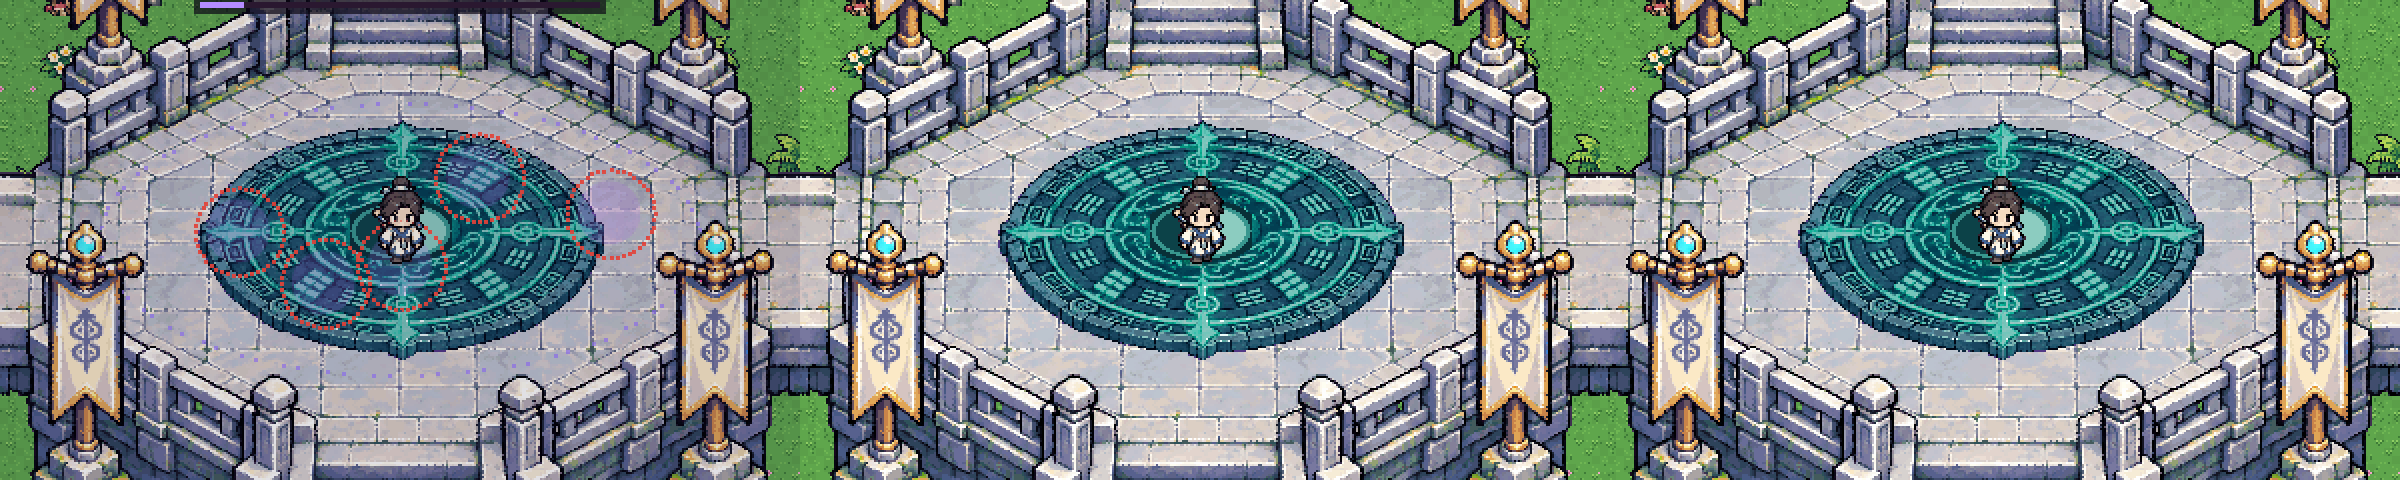
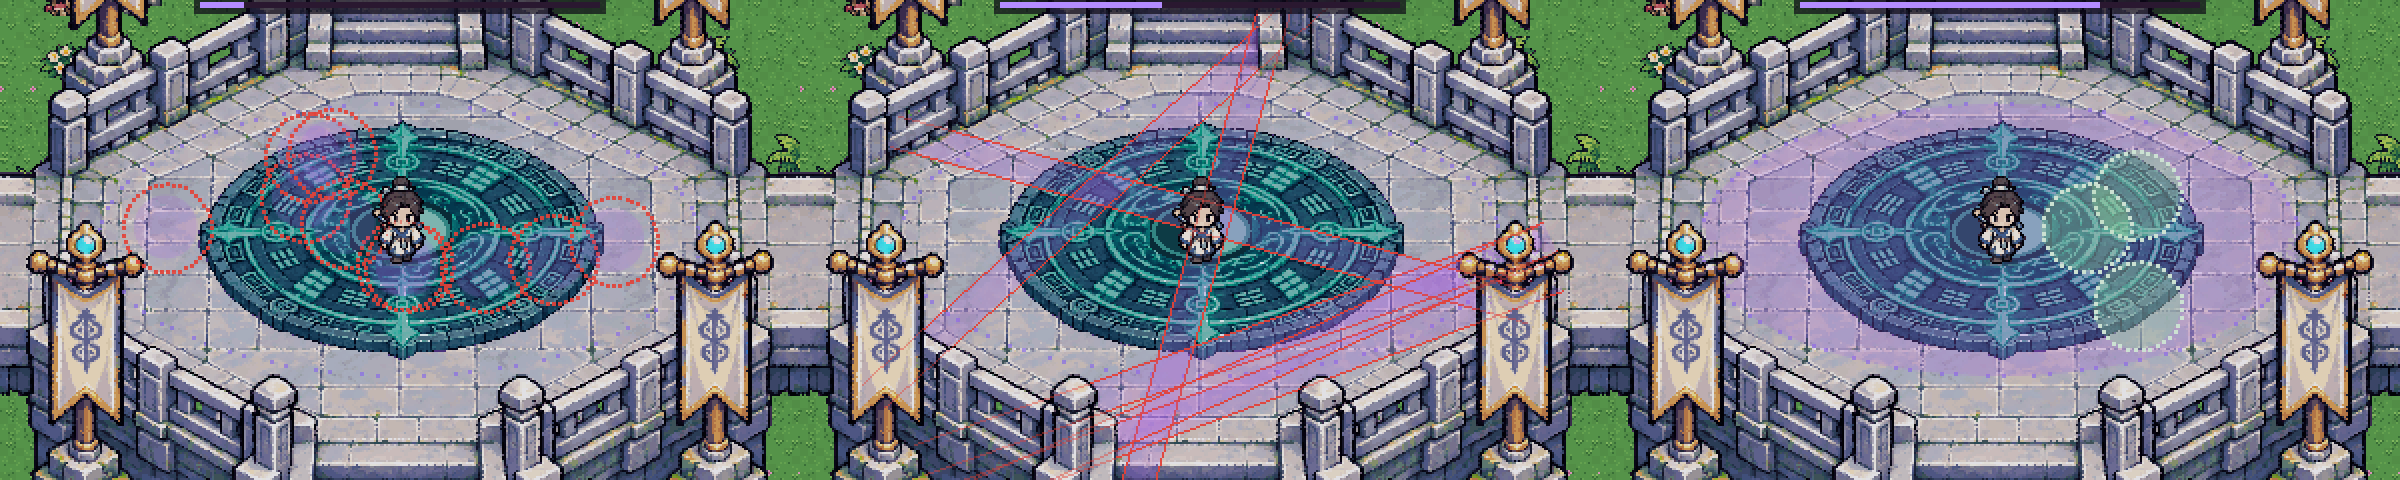
M8: gap doi don thien kiep o sanh (Loi an 10, Loi xa 6); sua loi treo o nhip Thien loi

diff --git a/src/core/config.js b/src/core/config.js
@@ -200,7 +200,7 @@ export const TRIBULATION = {
   SECT_ARENA_R: 86,          // (cũ) vòng tròn ở sảnh — thay bằng SECT_ARENA (elip phủ cả mặt sàn bệ)
   // M8 (14/11, người phát triển): ở sảnh tông môn thiên kiếp phủ cả mặt sàn bệ pháp đài — trận hình elip rx×ry (lớn nhất còn đứng được),
   // diện tích ~1,4× vòng cũ -> thêm đòn cho khó né hơn: Lôi ấn +extraMarks vòng/đợt, Lôi xà +extraLines dải/đợt, Thiên lôi giữ số ô an toàn
-  SECT_ARENA: { rx: 150, ry: 68, extraMarks: 2, extraLines: 1 },
+  SECT_ARENA: { rx: 150, ry: 68, extraMarks: 7, extraLines: 4 },   // 14/11 gấp đôi đòn: Lôi ấn 10 vòng, Lôi xà 6 dải mỗi đợt
   PHASES: [
     { name: 'Lôi ấn',   kind: 'marks', dur: 8, every: 1.1, n: 3, r: 22, windup: 1.2, dmg: 0.16 },
     { name: 'Lôi xà',   kind: 'lines', dur: 8, every: 1.5, lines: 2, w: 16, windup: 1.2, dmg: 0.18 },

diff --git a/src/main.js b/src/main.js
@@ -504,7 +504,7 @@ function updateInteractiveTrib(dt) {
   });
   for (const { h } of strikes) {
     const pts = h.kind === 'circle' ? [[h.x, h.y]] : h.kind === 'line' ? [[h.x0 * 0.7 + h.x1 * 0.3, h.y0 * 0.7 + h.y1 * 0.3], [(h.x0 + h.x1) / 2, (h.y0 + h.y1) / 2], [h.x0 * 0.3 + h.x1 * 0.7, h.y0 * 0.3 + h.y1 * 0.7]]
-      : Array.from({ length: trib.RY && trib.RY !== trib.R ? 8 : 5 }, (_, i, A) => [CX + Math.cos(i / A.length * 6.283) * trib.R * 0.6, CY + Math.sin(i / A.length * 6.283) * (trib.RY || trib.R) * 0.6]);
+      : (n => Array.from({ length: n }, (_, i) => [CX + Math.cos(i / n * 6.283) * trib.R * 0.6, CY + Math.sin(i / n * 6.283) * (trib.RY || trib.R) * 0.6]))(trib.RY && trib.RY !== trib.R ? 8 : 5);
     for (const [x, y] of pts) spawnFx(vis, 'loi_kiep', x, y, { flip: Math.random() < 0.5 });
     Audio.play('strike');
     addFlash(vis, h.kind === 'storm' ? 0.2 : 0.08);

diff --git a/TASKS_TU_TIEN_LO.md b/TASKS_TU_TIEN_LO.md
@@ -397,6 +397,7 @@ Thiết kế + backlog đầy đủ (ChatGPT, 13/11): **`docs/chatgpt_tong_mon_M
   - [x] (14/11) Phím pixel (ChatGPT vẽ theo mẫu "simple keys" người phát triển gửi: `docs/concept/phim_pixel_chatgpt.png` -> `sprites/phim.*` 34×31: e, e_nhan (vỡ nét, chưa dùng), 1, 2, t, b, esc, g); khung nhắc E và bảng chọn dùng ảnh phím (`UI.setKeycaps`/`UI.keycap`)
   - [x] (14/11) Pháp đài: E = tọa thiền ngay (bỏ bảng chọn); sảnh tông môn tự đột phá tầng nhỏ khi đủ tu vi (`autoBreak`); đủ tu vi đại cảnh giới -> trong trận (kể cả đang thiền) hiện "E Thiên kiếp", E bắt đầu thiên kiếp; đang thiền mà không có nhắc thì E = thôi thiền. Động phủ cũ giữ B. Thử: tầng 3 tự lên 8 rồi dừng ở thiên kiếp, E -> thiên kiếp bắt đầu
   - [x] (14/11) Thiên kiếp ở sảnh phủ cả mặt sàn bệ (người phát triển): trận elip `TRIBULATION.SECT_ARENA` rx 150 × ry 68 (elip lớn nhất đứng được trên sàn), `createTrib(..., R, {ry, extraMarks, extraLines})`; khó hơn: Lôi ấn 3→5 vòng/đợt, Lôi xà 2→3 dải/đợt, Thiên lôi 8 tia sét; viền trận và vùng Thiên lôi vẽ elip; test sect_map kiểm cả elip đứng được; ảnh `docs/playtest/M8_thien_kiep_be.png`
+  - [x] (14/11) Gấp đôi đòn thiên kiếp ở sảnh: Lôi ấn 10 vòng/đợt, Lôi xà 6 dải/đợt (`SECT_ARENA.extraMarks 7, extraLines 4`). Sửa lỗi treo game ở nhịp Thiên lôi (do commit 2b287de: `Array.from` mapFn không có tham số mảng). Thử đủ 3 nhịp (giữ đầy máu): xong, cảnh giới 9→12; ảnh `docs/playtest/M8_thien_kiep_be.png`
 - [ ] M8-04 Cổng Bí Cảnh (S, P0)
 - [ ] M8-05 Tụ Linh Pháp Đài (M, P0) → GATE M8-A
 - [ ] M8-06..11 (M8-B, từng công trình), M8-12..16 (M8-C, HUD/dẫn đường/cảm ứng/art/save), M8-17..18 (M8-D, playtest): xem file thiết kế
